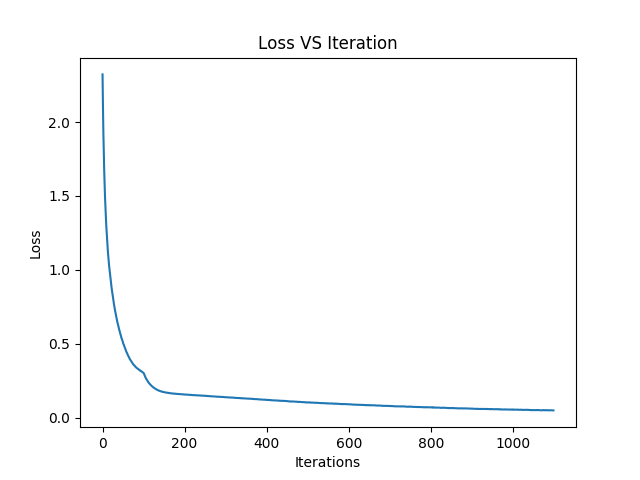
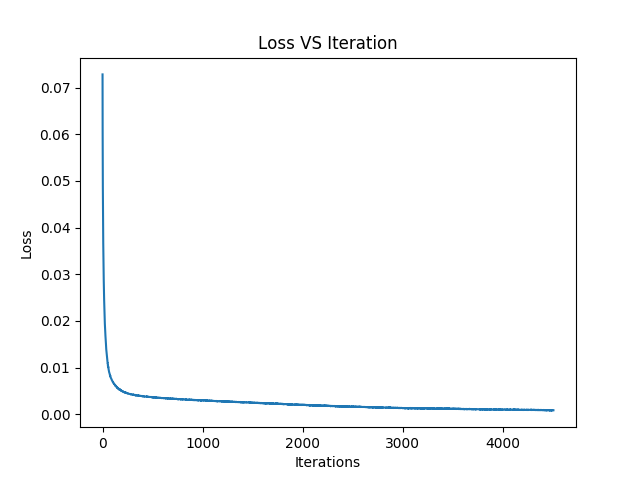
Changed Link,Image,And Config of Model in README.md

diff --git a/plot.py b/plot.py
@@ -1,6 +1,6 @@
 import json
 import matplotlib.pyplot as plt
-model = json.load(open("model1.json","rb"))
+model = json.load(open("model.json","rb"))
 loss = model['loss']
 
 plt.plot(loss)

diff --git a/README.md b/README.md
@@ -12,13 +12,13 @@ The Dataset consists of Textual Data that belong to one of the **8** Categories
 Had to Fix the **Sequence Length** to **20** and **Pad** with **0**'s to make **Training Faster**
 
 ## RNN Model Configuration
-1. **Learning Rate = 1e-3**
+1. **Learning Rate = 1e-2**
 2. **Epochs = 4050**
 3. **Word Embedding Dimension = 100**
 4. **Hidden State Dimension = 128**
 5. **Truncated Backpropagation Length = 4**
 6. **Training Sequence Length = 20**
-7. **Batch Size = 128**
+7. **Batch Size = 1000**
 8. **Weight Initialization** was done from a **Gaussian Distribution** with **mean=0.0** and **std=1**
 9. **Bias** were **Zero Initialized**
 
@@ -27,7 +27,7 @@ Had to Fix the **Sequence Length** to **20** and **Pad** with **0**'s to make **
  The training time for the model was about **6 hours**
 
 ### Loss-Iteration Curve
-![Loss-Iteration Curve for 1100 Epochs](/loss_curve.png)
+![Loss-Iteration Curve for 4050 Epochs](/loss_curve.png)
 
 ### Downloading Model
-The Model can be downloaded from <a href="https://drive.google.com/open?id=0B6OWaNVUCQvaN2FjYkF5UGdsa1U">here</a>
+The Model can be downloaded from <a href="https://drive.google.com/open?id=0B6OWaNVUCQvaQ0ZwME9GSXRrTkE">here</a>
